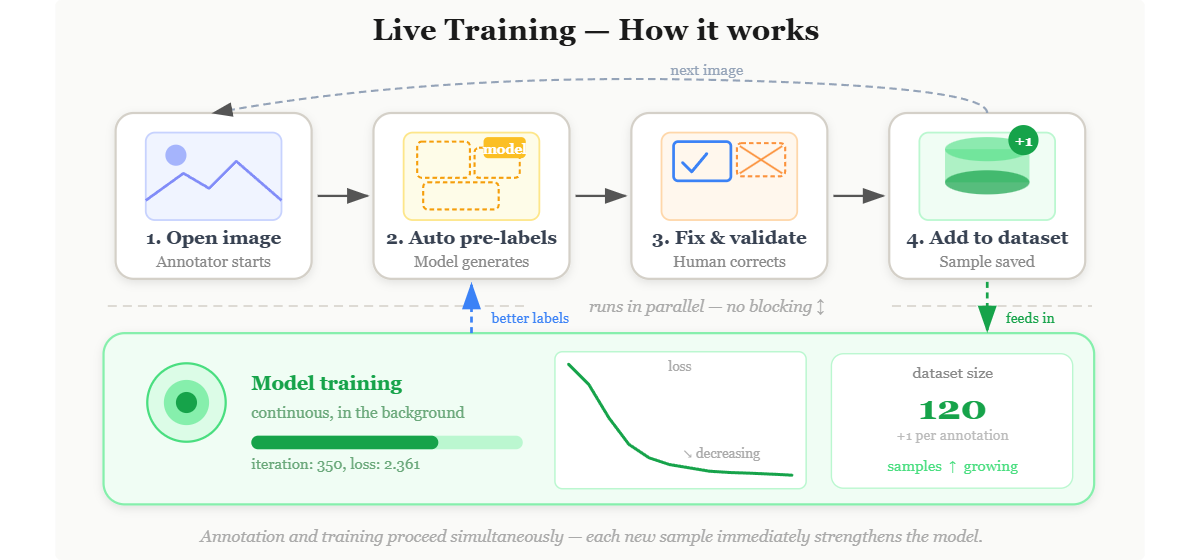
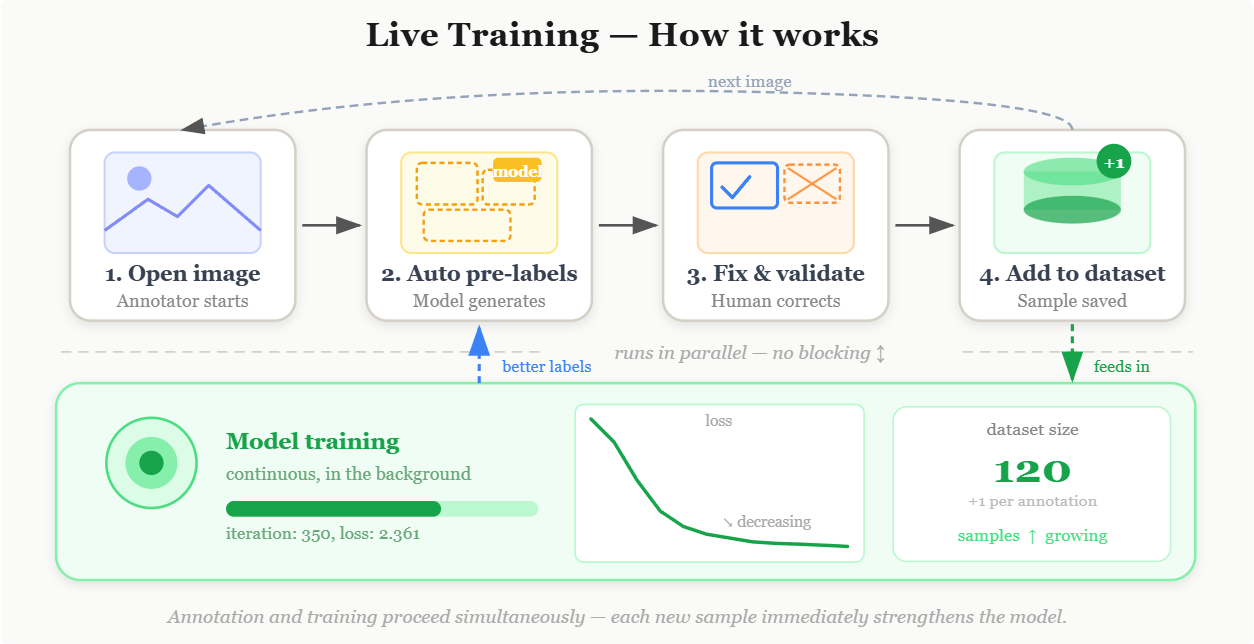
update diagram, add cross-references in docs

diff --git a/labeling/labeling-with-AI/live-training/live-training.md b/labeling/labeling-with-AI/live-training/live-training.md
@@ -11,6 +11,10 @@ Live Training is a real-time AI annotation framework pioneered by Supervisely. I
 
 By project completion, you get both a fully annotated dataset and a trained model ready for deployment — with accuracy equivalent to a model trained through conventional offline training.
 
+{% hint style="info" %}
+Check the [Technical Report](./technical-report.md) for a deep dive into the architecture and research behind Live Training.
+{% endhint %}
+
 **Live Training solves two key limitations of AI-assisted annotation:**
 
  - While zero-shot foundation models (like SAM and GroundingDINO) work well for common objects, they often struggle with specialized domains. Live Training overcomes these limitations by fine-tuning foundation models on the fly, providing immediate automated image annotation for complex, niche use cases.
@@ -155,3 +159,7 @@ The AI assistance configuration panel offers the following settings:
 - **Don't auto-predict if image contains objects** (figures/annotations) — By default, Live Training suggests predictions for every new image. Enable this option to skip automatic prediction when the current image already contains any labeled objects. This is useful when your dataset is partially annotated.
 - **Confidence Threshold** (only for detection model) — Filters the detections returned by the model. Only predictions with a confidence score above this threshold will be shown as suggestions. Lower values show more predictions (including uncertain ones), while higher values show only the model's most confident detections. Adjust this to balance recall and precision based on your annotation needs.
 - **Predict as instance masks** (only for segmentation model) — By default, the segmentation model returns predictions as instance masks (each object is a separate mask). Disable this option to receive semantic segmentation predictions instead (all objects of the same class are merged into one mask). This can be useful for cases where instance-level separation is not necessary, or when objects are very small and densely packed.
+
+---
+
+Check the [Technical Report](./technical-report.md) for a deep dive into the architecture and research behind Live Training.

diff --git a/labeling/labeling-with-AI/live-training/technical-report.md b/labeling/labeling-with-AI/live-training/technical-report.md
@@ -26,9 +26,9 @@ We identified foundational inefficiencies common to all AI-assisted labeling app
 
 Together, these two problems mean that companies are paying full price for annotation while getting diminishing help from AI. 
 
-Live Training addresses these inefficiencies through a single architectural shift: running annotation and model training in parallel, continuously. As annotators label each image, the system immediately incorporates it into the training process. When they open the next image, they receive predictions (pre-labels) from a model that has already learned from all previous samples. The quality of these predictions continuously improves with every new image labeled. 
+**Live Training** addresses these inefficiencies through a single architectural shift: running annotation and model training in parallel, continuously. As annotators label each image, the system immediately incorporates it into the training process. When they open the next image, they receive predictions (pre-labels) from a model that has already learned from all previous samples. The quality of these predictions continuously improves with every new image labeled. 
 
-This approach transforms annotation projects from a multi-week, multi-team coordination challenge into a single-phase workflow where AI assistance grows naturally from the first annotation onward. There are no batches to coordinate, no training cycles to schedule, no additional decisions required. ML engineers configure the system once, and it runs automatically. By project completion, you get both a fully annotated dataset and a trained model with accuracy comparable to a model trained through conventional offline training.
+This approach transforms annotation projects from a multi-week, multi-team coordination challenge into a single-phase workflow where AI assistance grows naturally from the first annotation onward. There are no training cycles to coordinate. ML engineers configure the system once, and it runs automatically. By project completion, you get both a fully annotated dataset and a trained model with accuracy comparable to a model trained through conventional offline training.
 
 # Background and Related Work
 
@@ -61,6 +61,10 @@ The fundamental limitation of interactive segmentation models is manual effort: 
 Live Training is built on a single design principle: the model trains continuously alongside annotation, on a single GPU, with no separation between the training and deployment phases.
 
 In practice, this works as follows. As soon as an annotator completes two images, training begins — the model starts updating its weights in the background using the labeled data accumulated so far. When the annotator opens the next image, training is briefly paused, the model switches to inference mode, and predictions are generated from the latest model state. The annotator receives pre-labels reflecting everything the model has learned up to that moment. When they correct the annotation and confirm it, that sample is immediately added to the training dataset.
+
+{% hint style="info" %}
+Check the [Quickstart](./live-training.md) guide to get started with Live Training in Supervisely.
+{% endhint %}
 
 ![Live Training Diagram](/.gitbook/assets/live-training/live-training-diagram.png)
 